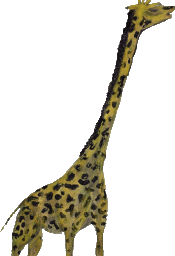
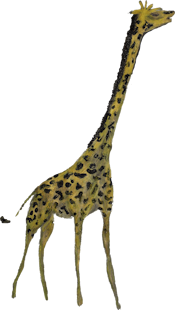
fix giraffe scale auto calculation + new image with full legs

diff --git a/public/css/content.css b/public/css/content.css
@@ -324,24 +324,32 @@ footer p {
 }
 
 .footer-giraffe {
+  --height-size: 310px;
+  --width-size: 175px;
   position: absolute;
-  left: -175px;
+  left: calc(0px - var(--width-size));
   bottom: 0;
   z-index: -1;
   transition: all 3s ease-out;
+  --scale: .85;
+  &.hide-giraffe {
+    transition: all 0.25s ease;
+  }
 }
 
 #footer-giraffe-1 {
+  --scale1: calc(var(--scale) * 0.7);
   &.show-giraffe {
-    transform: translate(calc(175px + 35vw), 38px) scale(0.7);
+      transform: translate(calc(var(--width-size) + 35vw), calc(var(--height-size) * (1 - var(--scale1)) / 2 )) scale(var(--scale1)); 
   }
   &.hide-giraffe {
     content: "";
   }
 }
 #footer-giraffe-2 {
+  --scale2: calc(var(--scale) * 1);
   &.show-giraffe {
-    transform: translate(calc(175px + 20vw));
+    transform: translate(calc(var(--width-size) + 20vw), calc(var(--height-size) * (1 - var(--scale2)) / 2 ) ) scale(var(--scale2));
   }
   &.hide-giraffe {
     content: "";
@@ -349,8 +357,9 @@ footer p {
 }
 
 #footer-giraffe-3 {
+  --scale3: calc(var(--scale) * 1.5);
   &.show-giraffe {
-    transform: translate(calc(175px + 55vw), -64px) scale(1.5);
+    transform: translate(calc(var(--width-size) + 55vw), calc(var(--height-size) * (1 - var(--scale3)) / 2 )) scale(var(--scale3));
   }
   &.hide-giraffe {
     content: "";
